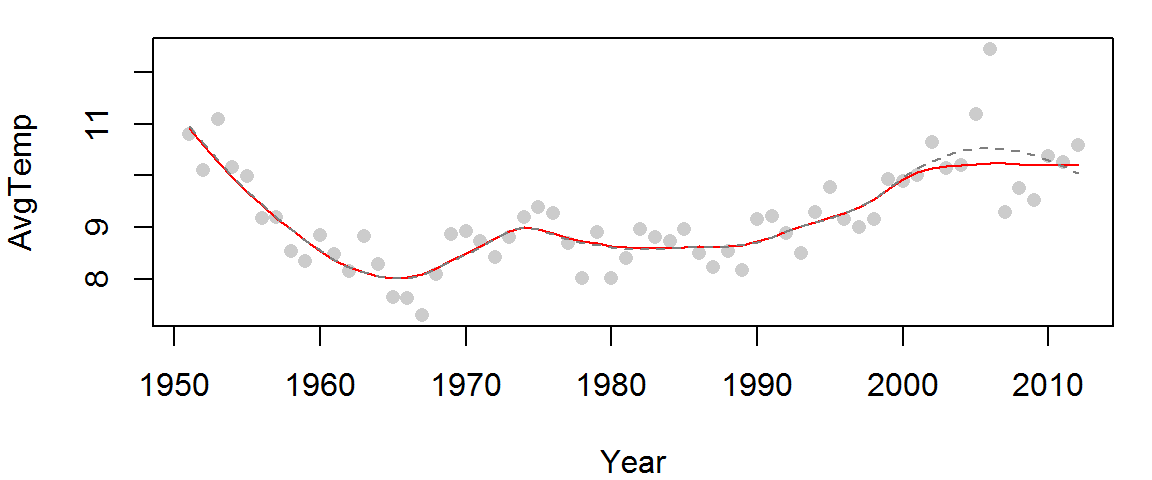
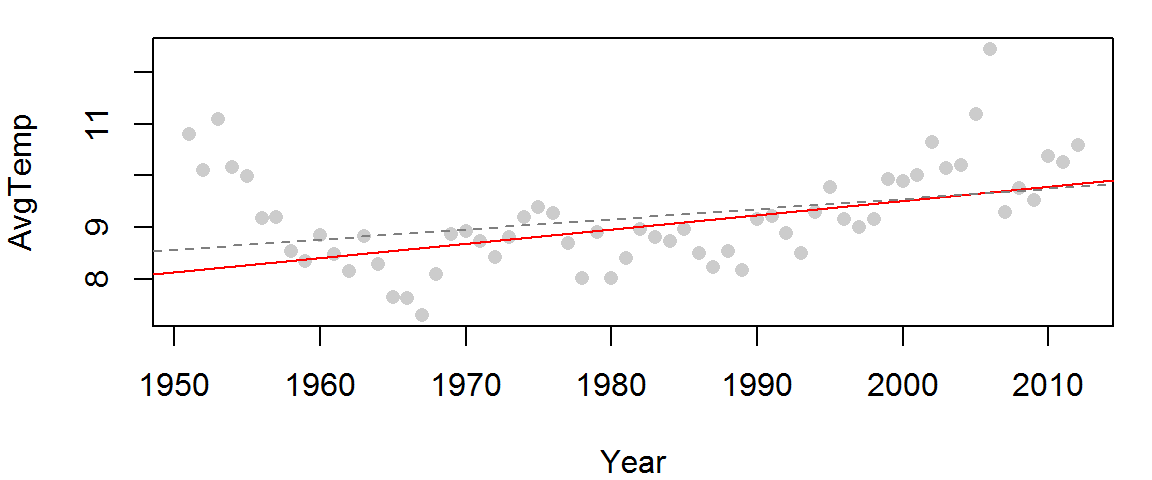
Added MASS:rlm implementation of the bisquare

diff --git a/Week09b.html b/Week09b.html
@@ -379,6 +379,7 @@ $(document).ready(function () {
 <li><a href="#tukeys-3-point-summary">Tukey’s 3-point summary</a></li>
 <li><a href="#bisquare">Bisquare</a><ul>
 <li><a href="#sample-data">Sample data</a></li>
+<li><a href="#built-in-implementation-of-the-bisquare">Built-in implementation of the bisquare</a></li>
 </ul></li>
 </ul></li>
 <li><a href="#robust-loess">Robust loess</a></li>
@@ -408,7 +409,7 @@ M &lt;-<span class="st"> </span><span class="kw">lm</span>(y ~<span class="st"> 
 M &lt;-<span class="st"> </span><span class="kw">lm</span>(y ~<span class="st"> </span>x)
 <span class="kw">abline</span>( M , <span class="dt">col=</span><span class="st">&quot;red&quot;</span>)</code></pre></div>
 <p><img src="Week09b_files/figure-html/unnamed-chunk-4-1.png" width="288" /></p>
-<p>Note the significant change in the line’s characteristics, it’s intercept and slope are now:</p>
+<p>Note the significant change in the line’s characteristics, its intercept and slope are now:</p>
 <div class="sourceCode"><pre class="sourceCode r"><code class="sourceCode r"><span class="kw">coef</span>(M)</code></pre></div>
 <pre><code>(Intercept)           x 
   9.5454545   0.8636364 </code></pre>
@@ -496,6 +497,25 @@ for(i in <span class="dv">1</span>:<span class="dv">10</span>){
 <p><img src="Week09b_files/figure-html/unnamed-chunk-13-1.png" width="576" /></p>
 <p>Note the difference in slopes: The robust regression method computes a slope of 0.0298 while the original regression model computes a slope of 0.0197.</p>
 </div>
+<div id="built-in-implementation-of-the-bisquare" class="section level3">
+<h3>Built-in implementation of the bisquare</h3>
+<p>The <code>MASS</code> package has a robust linear modeling function called <code>rlm</code> that will implement a variation of the aforementioned bisquare estimation technique. Its results may differ slightly from those presented here, but the difference will be insignificant for the most part. An example of its use follows.</p>
+<div class="sourceCode"><pre class="sourceCode r"><code class="sourceCode r"><span class="kw">library</span>(MASS)
+M2.r &lt;-<span class="st"> </span><span class="kw">rlm</span>( AvgTemp ~<span class="st"> </span>Year, <span class="dt">dat=</span>df2, <span class="dt">psi=</span><span class="st">&quot;psi.bisquare&quot;</span>)
+<span class="kw">plot</span>(AvgTemp ~<span class="st"> </span>Year,df2, <span class="dt">pch=</span><span class="dv">16</span>, <span class="dt">col=</span><span class="kw">rgb</span>(<span class="dv">0</span>,<span class="dv">0</span>,<span class="dv">0</span>,<span class="fl">0.2</span>))
+<span class="co"># Add the robust line</span>
+<span class="kw">abline</span>( M2.r, <span class="dt">col=</span><span class="st">&quot;red&quot;</span>)
+<span class="co"># Add the default regression line</span>
+<span class="kw">abline</span>( M1 , <span class="dt">col=</span><span class="st">&quot;grey50&quot;</span>, <span class="dt">lty=</span><span class="dv">2</span>)</code></pre></div>
+<p><img src="Week09b_files/figure-html/unnamed-chunk-14-1.png" width="576" /></p>
+<p>The function <code>rlm</code> can also be called directly from within <code>ggplot</code>.</p>
+<div class="sourceCode"><pre class="sourceCode r"><code class="sourceCode r"><span class="kw">library</span>(MASS)
+<span class="kw">ggplot</span>(df2, <span class="kw">aes</span>(<span class="dt">x=</span>Year, <span class="dt">y=</span>AvgTemp)) +<span class="st"> </span><span class="kw">geom_point</span>() +<span class="st"> </span>
+<span class="st">        </span><span class="kw">geom_smooth</span>(<span class="dt">method=</span><span class="st">&quot;lm&quot;</span>, <span class="dt">se=</span><span class="ot">FALSE</span>, <span class="dt">col=</span><span class="st">&quot;grey50&quot;</span>, <span class="dt">lty=</span><span class="dv">2</span>) +
+<span class="st">       </span><span class="kw">geom_smooth</span>(<span class="dt">method=</span><span class="st">&quot;rlm&quot;</span>, <span class="dt">se=</span><span class="ot">FALSE</span>, <span class="dt">col=</span><span class="st">&quot;red&quot;</span>,
+                   <span class="dt">method.args=</span><span class="kw">list</span>(<span class="dt">psi=</span><span class="st">&quot;psi.bisquare&quot;</span>))</code></pre></div>
+<p><img src="Week09b_files/figure-html/unnamed-chunk-15-1.png" width="576" /></p>
+</div>
 </div>
 </div>
 <div id="robust-loess" class="section level1">
@@ -520,7 +540,7 @@ for(i in <span class="dv">1</span>:<span class="dv">10</span>){
 
 <span class="co"># Add the default loess</span>
 <span class="kw">lines</span>(df2$Year, <span class="kw">predict</span>(lo), <span class="dt">col=</span><span class="st">&quot;grey50&quot;</span>, <span class="dt">lty=</span><span class="dv">2</span>)</code></pre></div>
-<p><img src="Week09b_files/figure-html/unnamed-chunk-14-1.png" width="576" /></p>
+<p><img src="Week09b_files/figure-html/unnamed-chunk-16-1.png" width="576" /></p>
 <p>The two curves overlap for most of the data range except between the years 2000 and 2010 where the un-corrected loess curve is unduly influenced by one or two rogue points incorrectly suggesting that a <em>hump</em> in water temperature occurred between the years 2000 and 2010.</p>
 <p>The R base <code>loess</code> function and <code>ggplot2</code>’s <code>stat_smooth</code> function have the ability to compute a robust version of the loess by invoking the <code>family = &quot;symmetric&quot;</code> parameter as in,</p>
 <div class="sourceCode"><pre class="sourceCode r"><code class="sourceCode r"><span class="kw">library</span>(ggplot2)
@@ -528,7 +548,7 @@ for(i in <span class="dv">1</span>:<span class="dv">10</span>){
 <span class="st">              </span><span class="kw">stat_smooth</span>(<span class="dt">method.args =</span> <span class="kw">list</span>(<span class="dt">family=</span><span class="st">&quot;symmetric&quot;</span>),    <span class="co"># Robust loess</span>
                           <span class="dt">se=</span><span class="ot">FALSE</span>, <span class="dt">span=</span><span class="dv">1</span>/<span class="dv">3</span>, <span class="dt">col=</span><span class="st">&quot;red&quot;</span>) +<span class="st">  </span>
 <span class="st">              </span><span class="kw">stat_smooth</span>( <span class="dt">se=</span><span class="ot">FALSE</span>, <span class="dt">span=</span><span class="dv">1</span>/<span class="dv">3</span>,<span class="dt">col=</span><span class="st">&quot;grey50&quot;</span>, <span class="dt">lty=</span><span class="dv">2</span>)   <span class="co"># Regular loess           </span></code></pre></div>
-<p><img src="Week09b_files/figure-html/unnamed-chunk-15-1.png" width="576" /></p>
+<p><img src="Week09b_files/figure-html/unnamed-chunk-17-1.png" width="576" /></p>
 <p>The red curve is that of the robust loess and the grey dashed curve is that of the standard loess.</p>
 </div>
 
